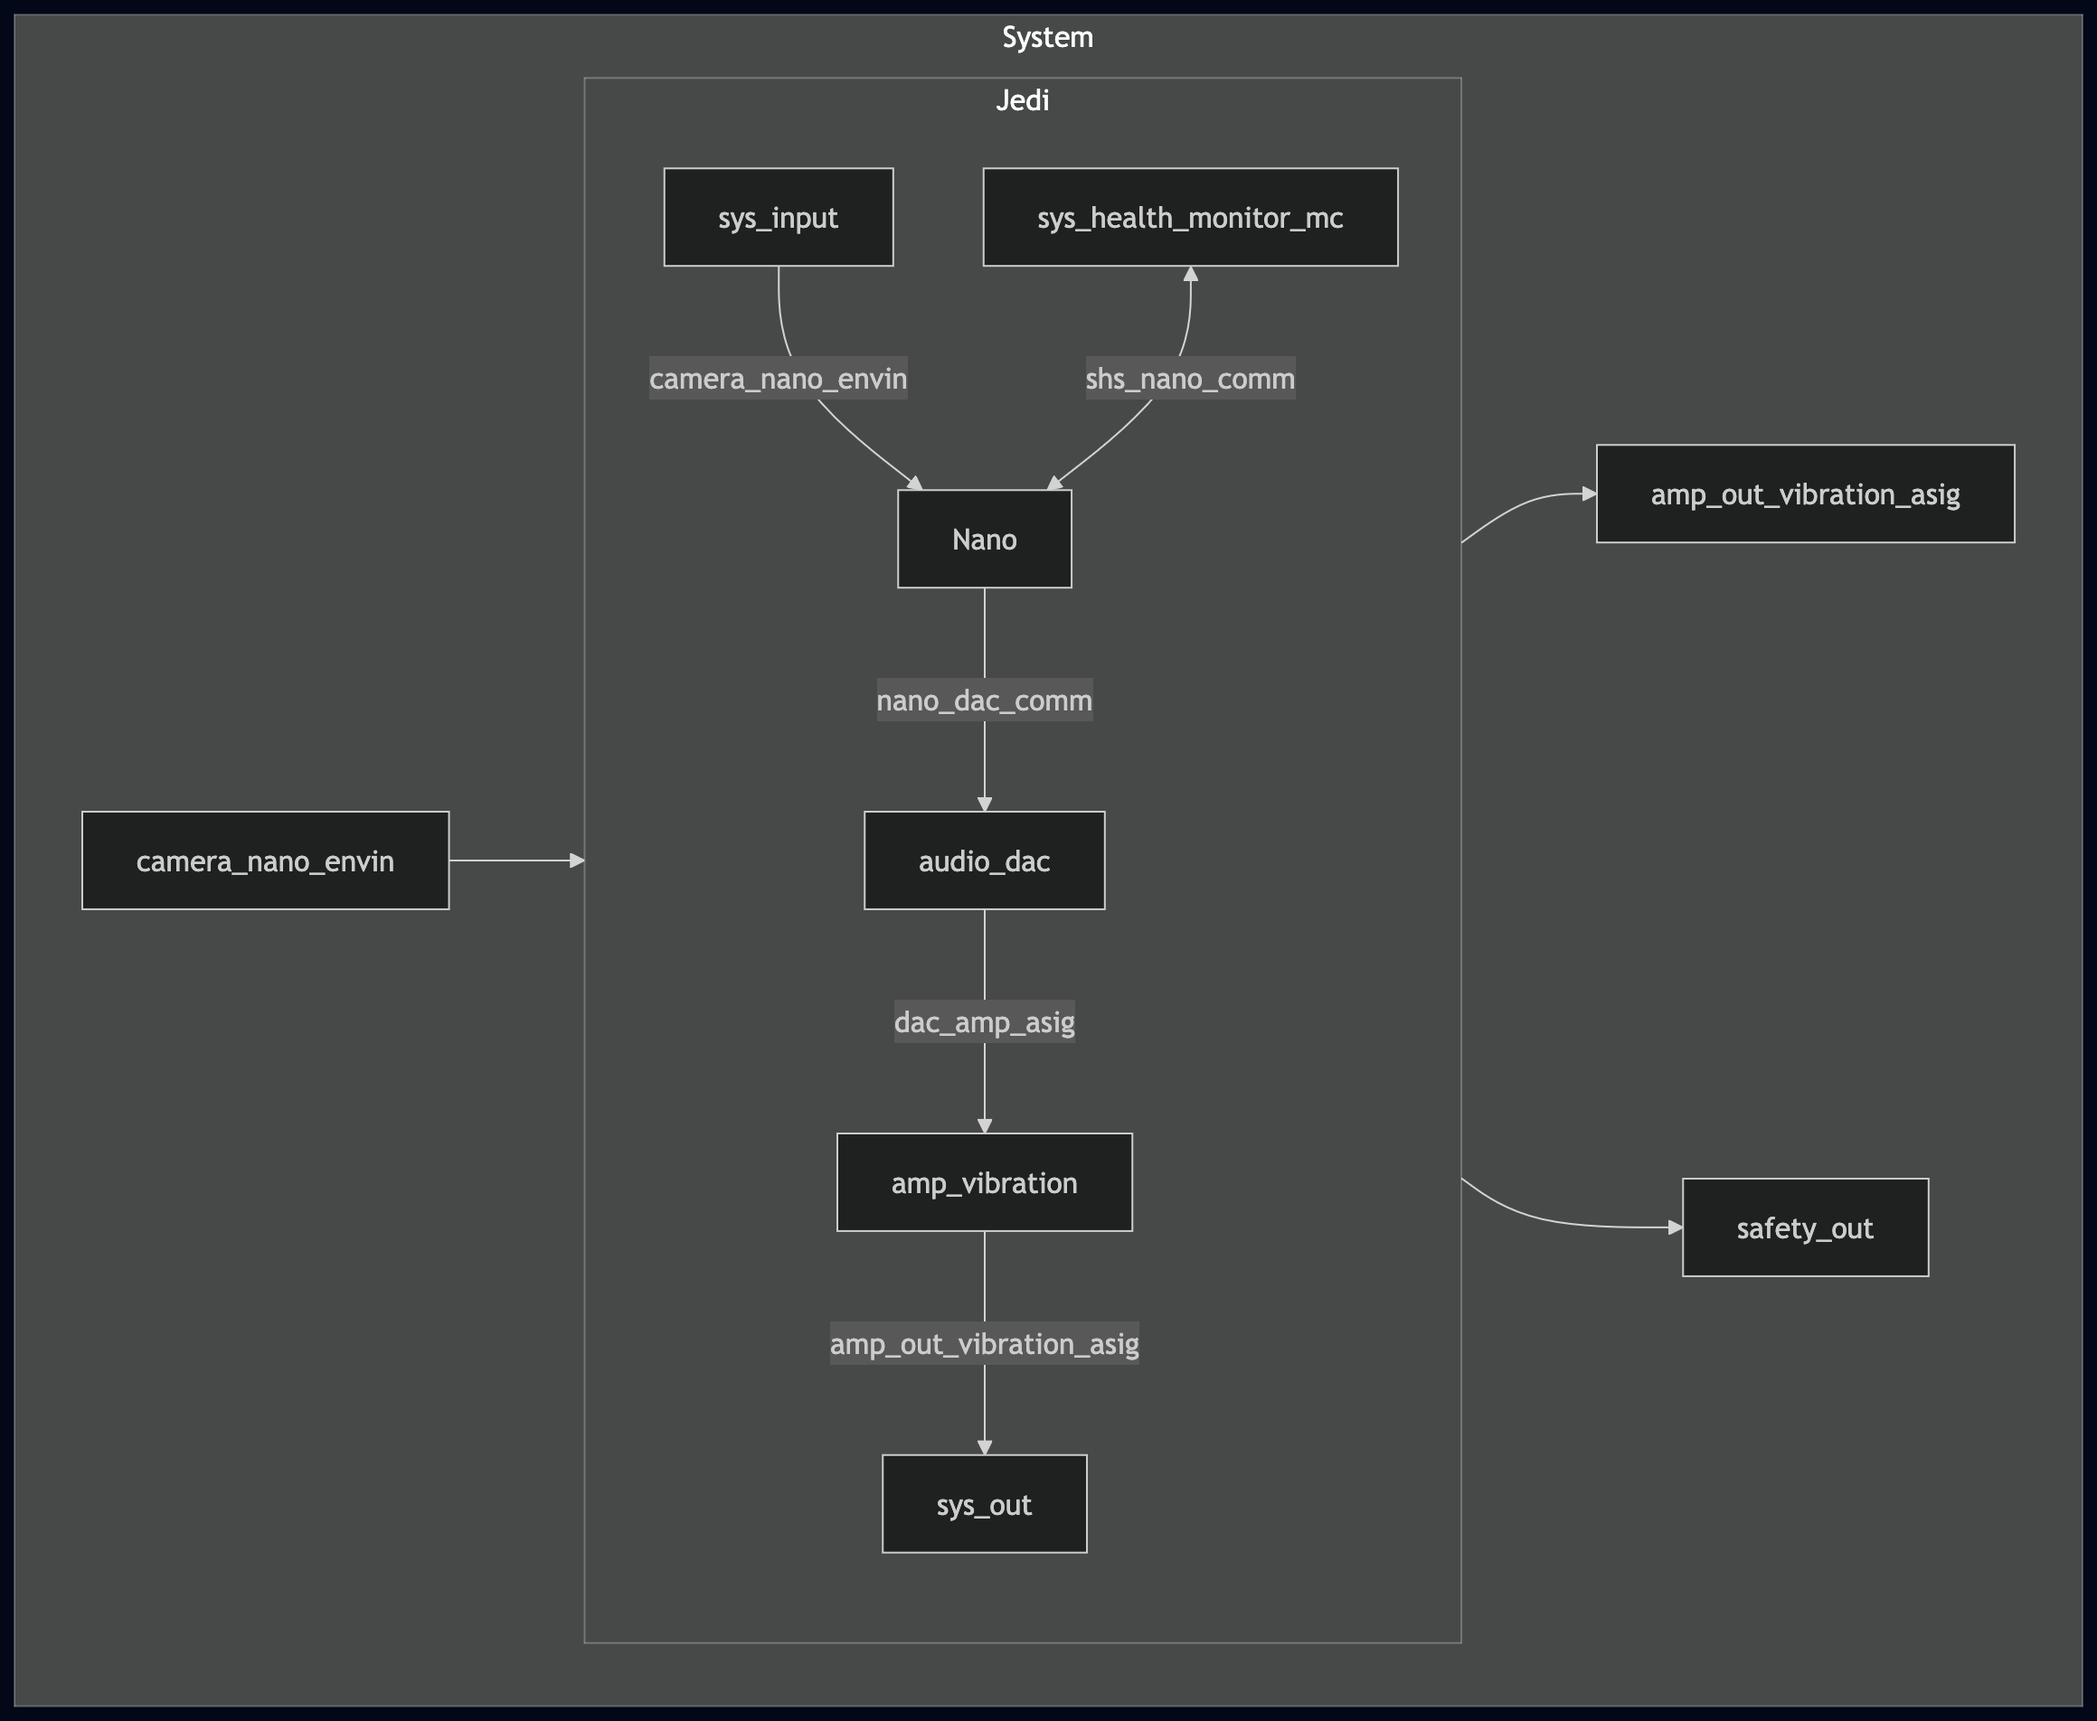
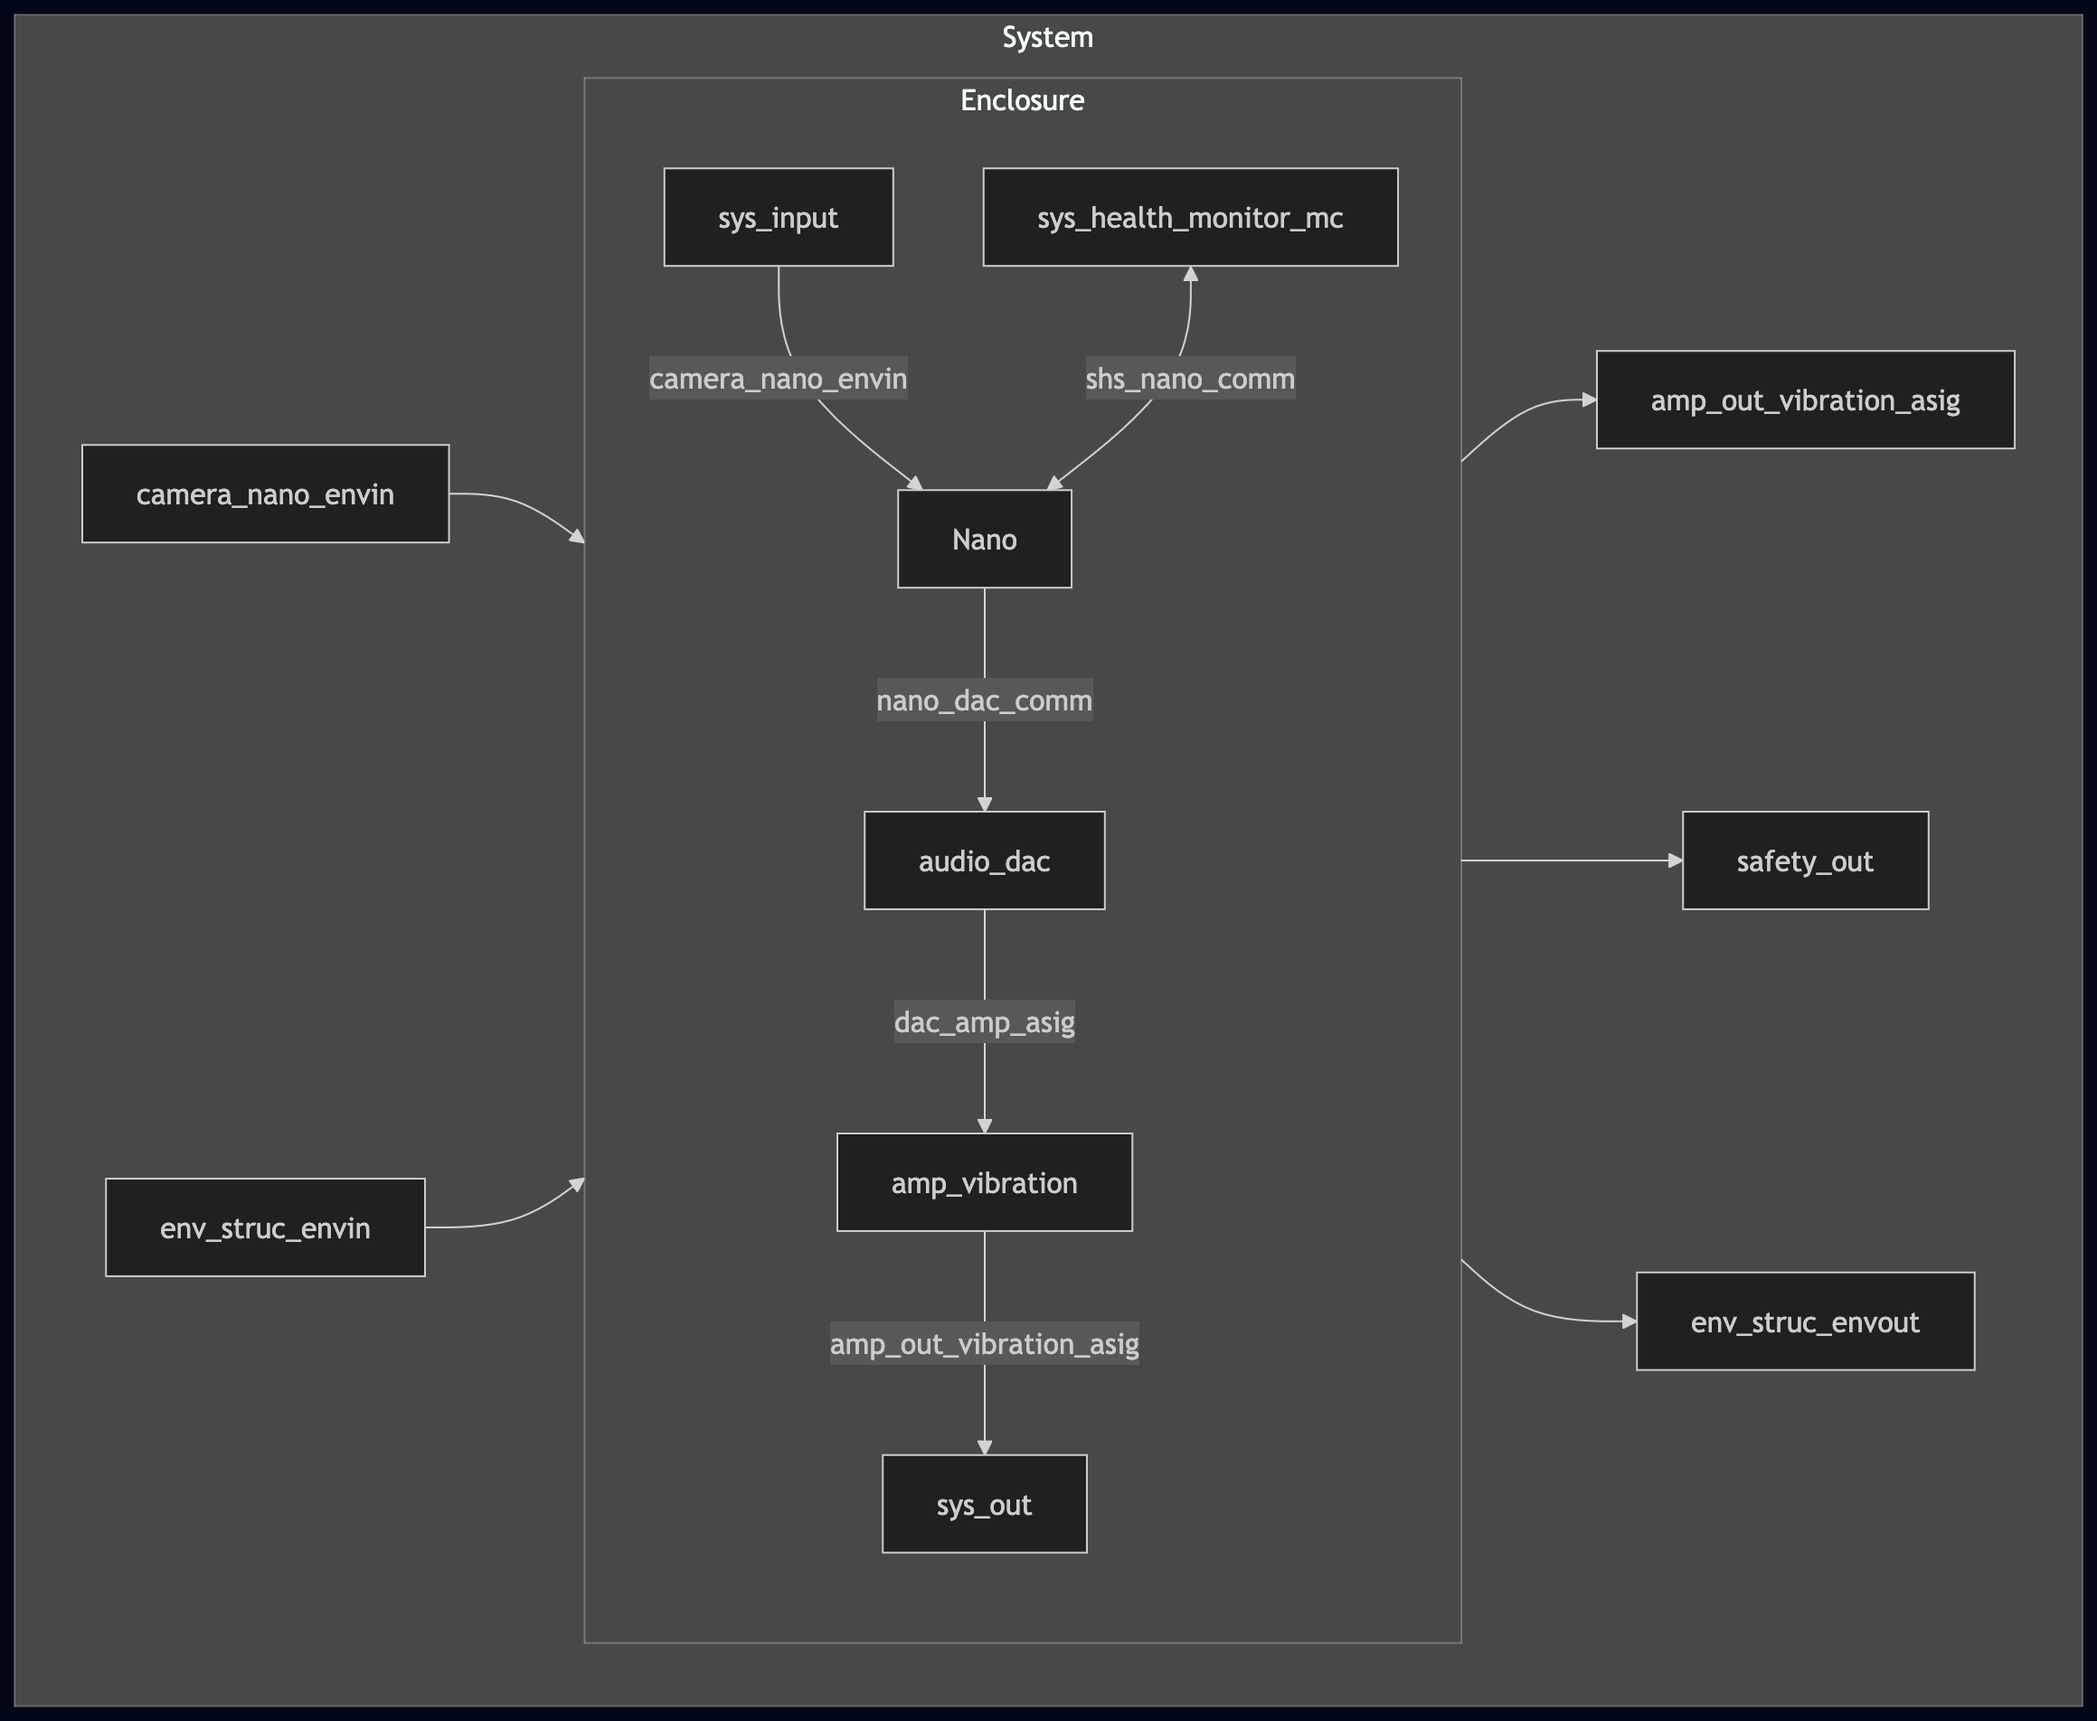
Add enclosure to system diagram

diff --git a/blocks.md b/blocks.md
@@ -5,16 +5,18 @@
 graph LR
      %% System input and outputs
     camera_nano_envin --> Jedi
+    env_struc_envin --> Jedi
     %%usr_in --> Jedi
     Jedi --> amp_out_vibration_asig
     Jedi --> safety_out
+    Jedi --> env_struc_envout
 ```
 
 ## Top-Level System
 ```mermaid
 graph TD
     subgraph System
-        subgraph Jedi
+        subgraph Enclosure
             %% Power management block
             sys_input -- "camera_nano_envin" --> Nano
 
@@ -37,10 +39,12 @@ graph TD
         end
 
         %% System input and outputs
-        camera_nano_envin --> Jedi
-        %%usr_in --> Jedi
-        Jedi --> amp_out_vibration_asig
-        Jedi --> safety_out
+        camera_nano_envin --> Enclosure
+        %%usr_in --> Enclosure
+        Enclosure --> amp_out_vibration_asig
+        Enclosure --> safety_out
+        env_struc_envin --> Enclosure
+        Enclosure --> env_struc_envout
     end
 ```
 
